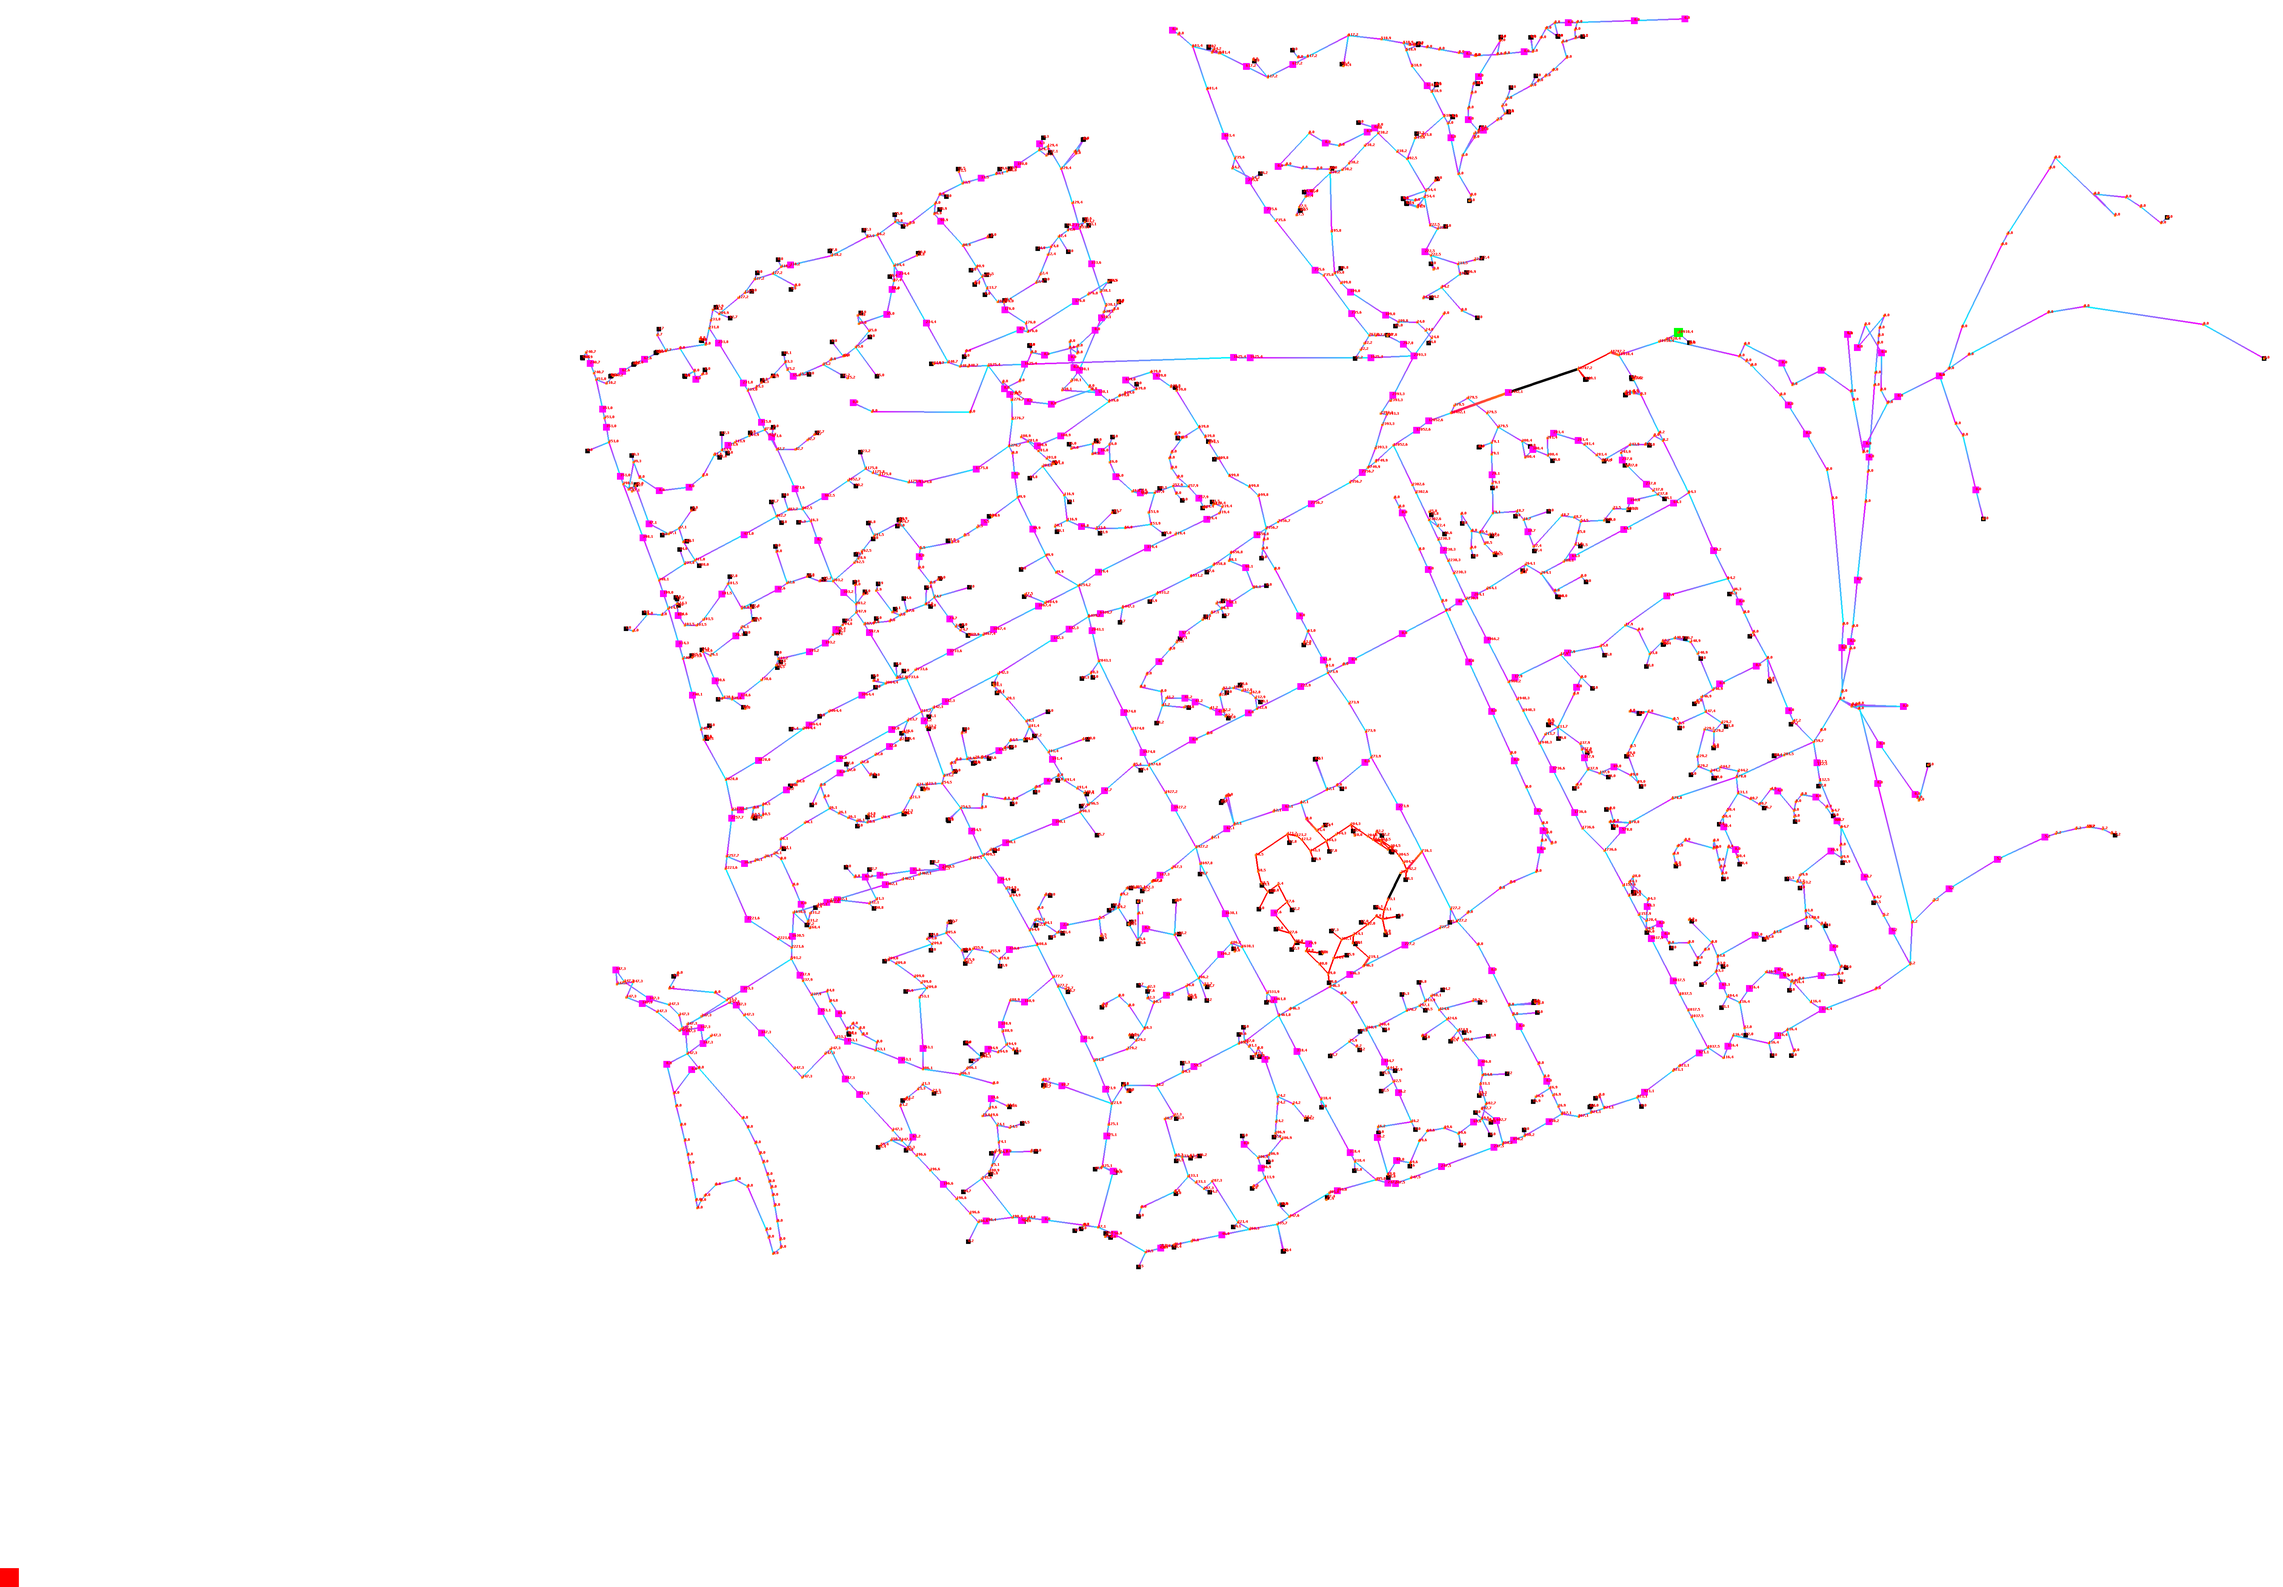
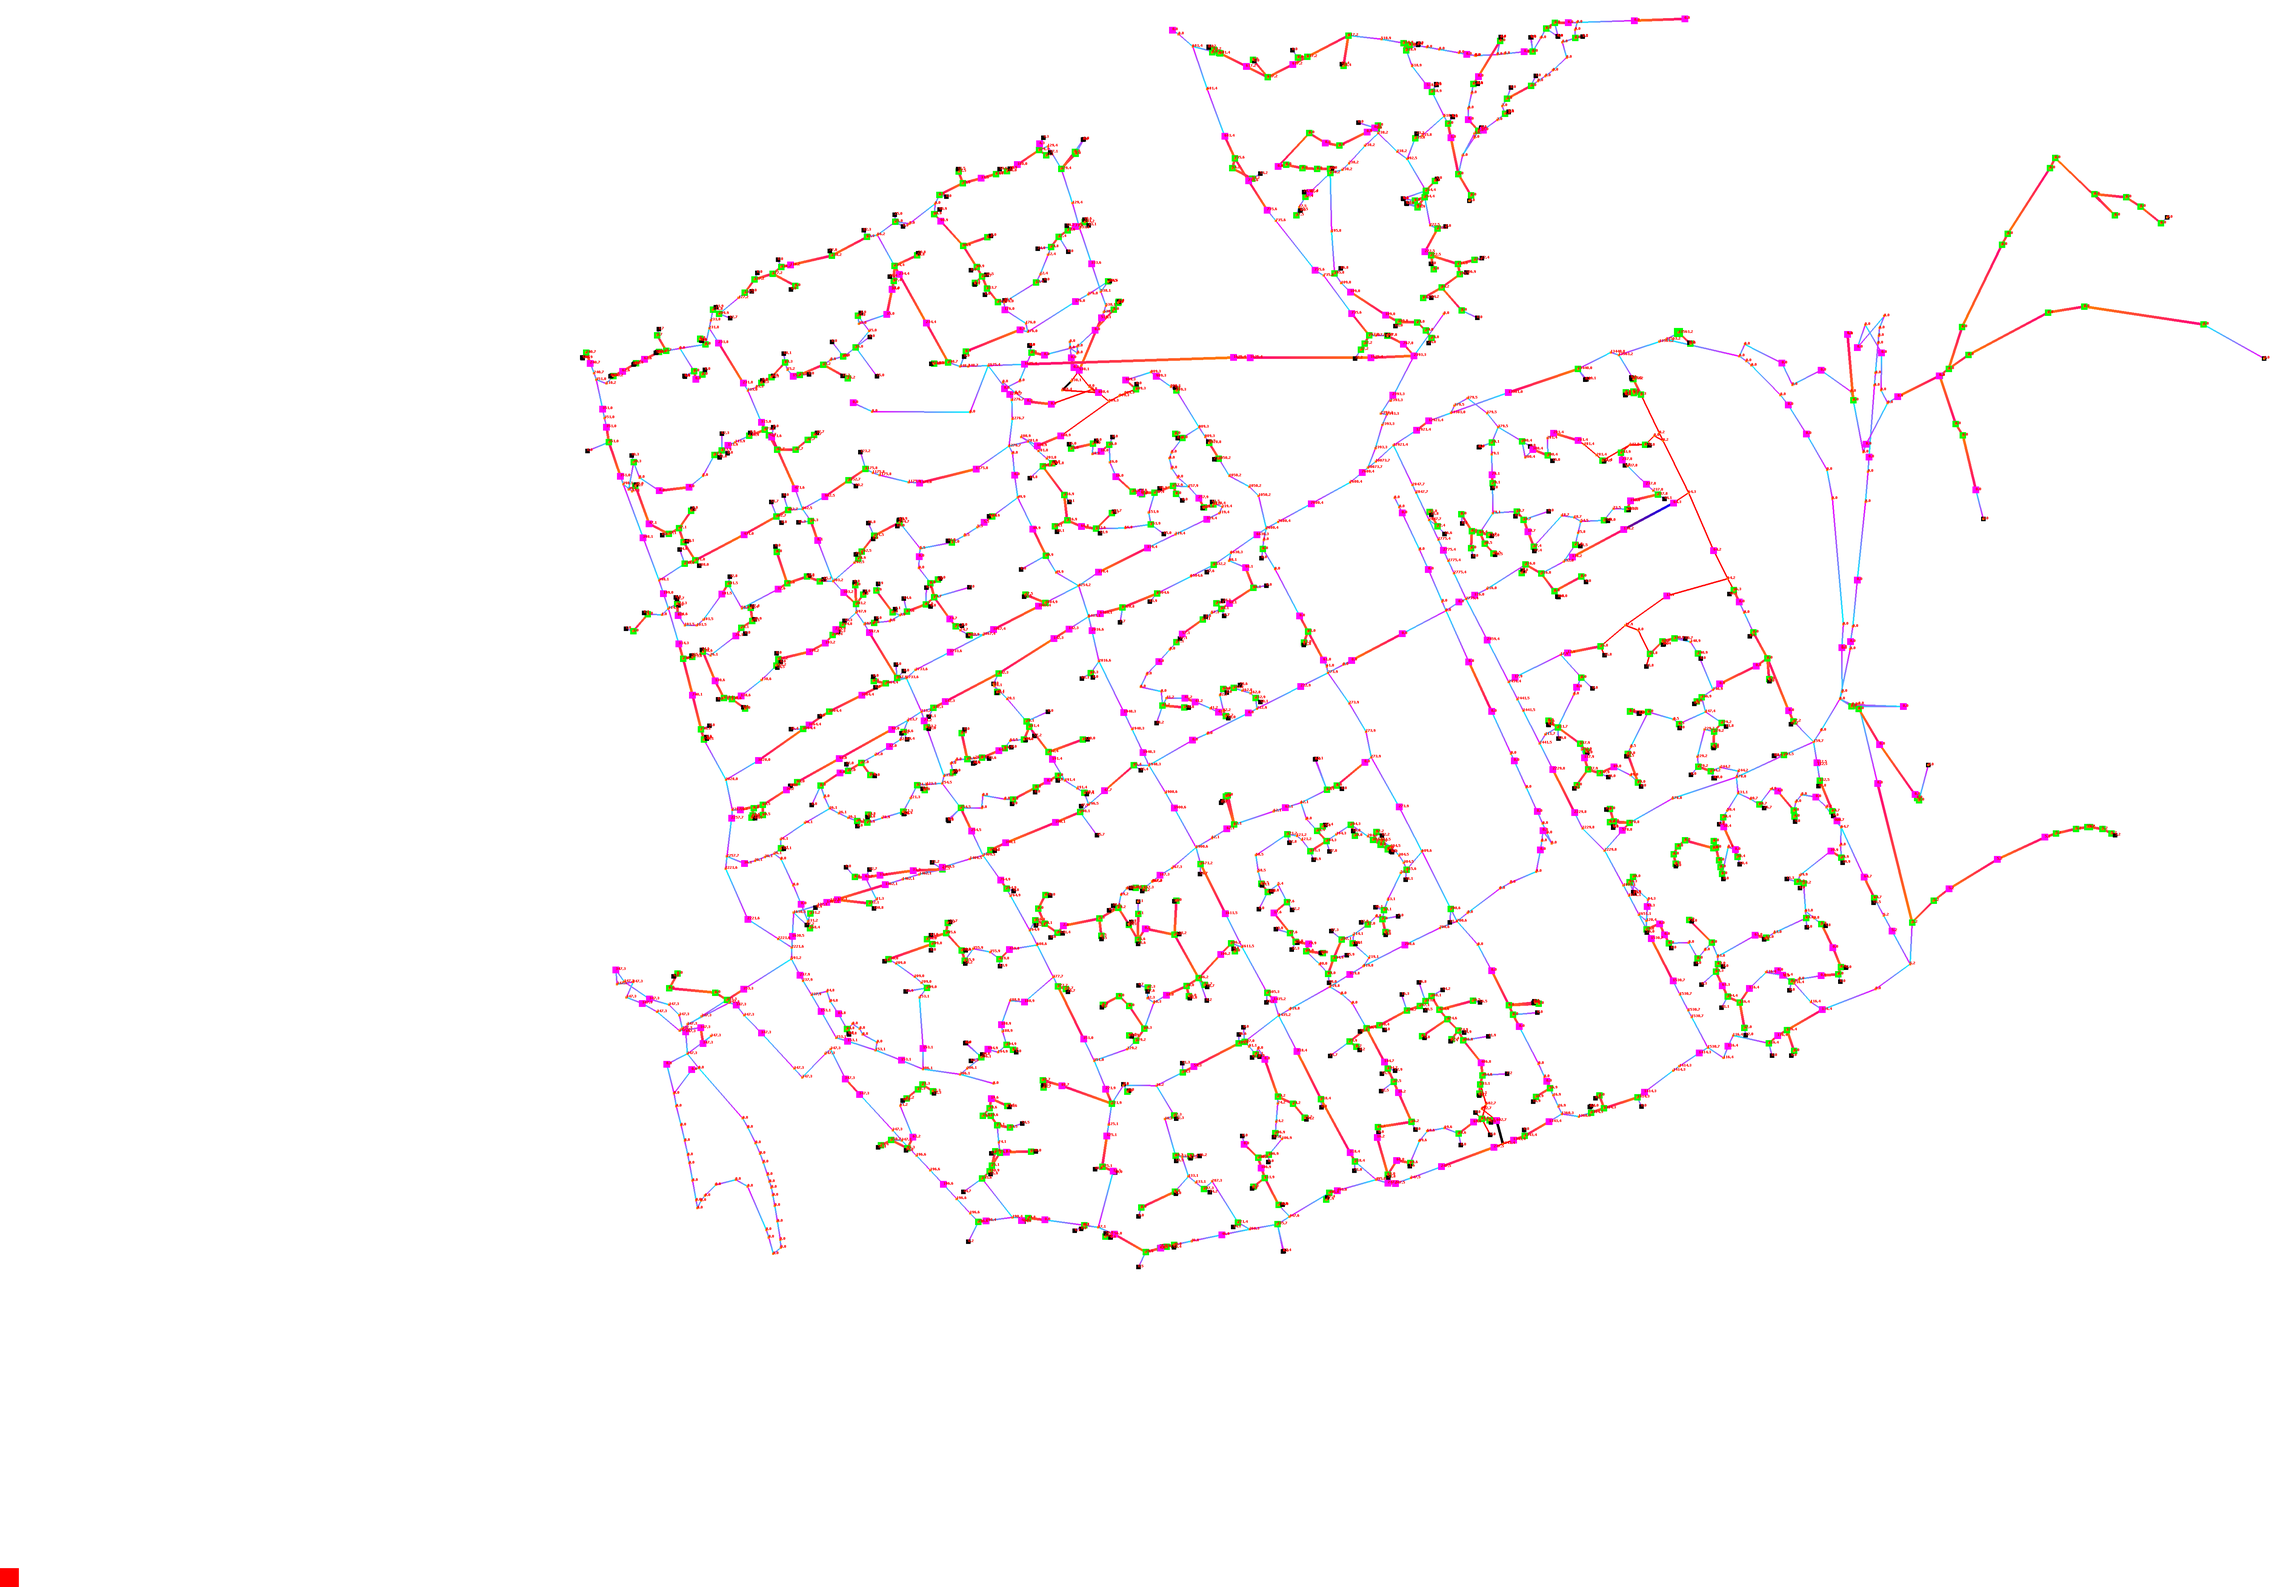
automated magical edges placement prototype

diff --git a/src/main/java/bachelorThesisPlayground/IsolatedZone.java b/src/main/java/bachelorThesisPlayground/IsolatedZone.java
@@ -27,16 +27,19 @@ public class IsolatedZone {
 		List<Vertex> startsOfExits = exits.stream().map(e->e.a).collect(Collectors.toList());
 		List<Vertex> endsOfExits = exits.stream().map(e->e.b).collect(Collectors.toList());
 
-		registerVertex(endsOfEntries.get(0));
+		for (Vertex v : endsOfEntries) {
+			registerVertex(v);
+		}
+		
+		for (Vertex v : startsOfExits) {
+			registerVertex(v);
+		}
 		
 		for (int i = 0; i < vertices.size(); i++) {
 			for (Vertex v : getNeighbours(graph, vertices.get(i))) {
 				System.out.println("traversing " + v);
 				if (startsOfEntries.contains(v) || endsOfExits.contains(v)) {
-					//traversion algo came from the backdoor and struck us, zone is not isolated
-					//but this is expected on the first iteration
-					if(i != 0)
-						throw new RuntimeException("not isolated");
+					System.out.println("startsOfEntries.contains(v) || endsOfExits.contains(v)");
 				} else if ( !(startsOfExits.contains(v) || endsOfEntries.contains(v) || vertices.contains(v)) ) {
 					registerVertex(v);
 				}
@@ -105,7 +108,7 @@ public class IsolatedZone {
 	}
 	
 	public String zoneCheck(){
-		if (getEntryFlow() - getInnerConsumption() - getExitFlow() == 0)
+		if (Math.abs(getEntryFlow() - getInnerConsumption() - getExitFlow()) < 0.000001)
 			return "OK";
 		else {
 			for (Vertex v : vertices) {
@@ -118,3 +121,59 @@ public class IsolatedZone {
 		}
 	}
 }
+
+
+
+
+//has bug
+
+//contract: entries are incoming edges, exits are outcoming, 
+	//so you can travel from entry.b->exit.a through the zone
+	//(all entries and exits can be reached from each other)
+	/*
+	public IsolatedZone(SimpleWeightedGraph<Vertex,Edge> graph, List<Edge> entries, List<Edge> exits) {
+		hostGraph = graph;
+		
+		List<Vertex> startsOfEntries = entries.stream().map(e->e.a).collect(Collectors.toList());
+		List<Vertex> endsOfEntries = entries.stream().map(e->e.b).collect(Collectors.toList());		
+		List<Vertex> startsOfExits = exits.stream().map(e->e.a).collect(Collectors.toList());
+		List<Vertex> endsOfExits = exits.stream().map(e->e.b).collect(Collectors.toList());
+
+		registerVertex(endsOfEntries.get(0));
+		
+		for (int i = 0; i < vertices.size(); i++) {
+			for (Vertex v : getNeighbours(graph, vertices.get(i))) {
+				System.out.println("traversing " + v);
+				if (startsOfEntries.contains(v) || endsOfExits.contains(v)) {
+					//traversion algo came from the backdoor and struck us, zone is not isolated
+					//but this is expected on the first iteration
+					if(i != 0)
+						throw new RuntimeException("not isolated");
+				} else if ( !(startsOfExits.contains(v) || endsOfEntries.contains(v) || vertices.contains(v)) ) {
+					registerVertex(v);
+				}
+			}
+		}
+		
+		//add all ends of entries and starts of exits if they are not present
+		List<Vertex> a = new ArrayList<>();
+		for (Vertex v : endsOfEntries)
+			if (!vertices.contains(v))
+				registerVertex(v);
+		
+
+		for (Vertex v : startsOfExits)
+			if (!vertices.contains(v))
+				registerVertex(v);
+		
+		for (Edge e: exits) {
+			e.magical = true;
+		}
+
+		for (Edge e: entries) {
+			e.magical = true;
+		}
+		this.entries = new ArrayList<>(entries);
+		this.exits = new ArrayList<>(exits);
+	}
+	*/

diff --git a/src/main/java/org/educationalProject/surfacePathfinder/visualization/NetworkVisualizer.java b/src/main/java/org/educationalProject/surfacePathfinder/visualization/NetworkVisualizer.java
@@ -2,27 +2,17 @@ package org.educationalProject.surfacePathfinder.visualization;
 
 import java.awt.Color;
 import java.awt.Font;
-import java.awt.image.BufferedImage;
-import java.io.File;
-import java.nio.ByteBuffer;
-import java.util.ArrayList;
 import java.util.List;
 
-import javax.imageio.ImageIO;
-
 import org.jgrapht.WeightedGraph;
-import org.jgrapht.graph.DefaultDirectedWeightedGraph;
-import org.jgrapht.graph.DefaultWeightedEdge;
 import org.jgrapht.graph.SimpleWeightedGraph;
 
-import com.jogamp.common.nio.Buffers;
 import com.jogamp.opengl.GL;
 import com.jogamp.opengl.GL2;
 import com.jogamp.opengl.util.awt.TextRenderer;
 
 import bachelorThesisPlayground.Edge;
 import bachelorThesisPlayground.Vertex;
-import io.github.jdiemke.triangulation.Triangle2D;
 
 public class NetworkVisualizer extends Visualizer{
 	protected WeightedGraph<Vertex, Edge> graph;
@@ -179,12 +169,18 @@ public class NetworkVisualizer extends Visualizer{
 	    gl2.glLineWidth((float)DisplayMode.getStrokeWidth(mode)*2);
 	    gl2.glBegin( GL2.GL_LINES );   
 		for (Edge e : graph.edgeSet()) {
-			if(e.magical) {
+			if(e.magical && e.leak > 0) {
+				drawColoredPoint(gl2, e.a, 0.5f, 0, 0.5f); 
+		    	drawColoredPoint(gl2, e.b, 0, 0, 1); 
+			} else if(e.magical) {
 				drawColoredPoint(gl2, e.a, 1, 0.5f, 0); 
 		    	drawColoredPoint(gl2, e.b, 1, 0, 0.5f); 
 			} else if (e.leak > 0) {
 		    	drawColoredPoint(gl2, e.a, 0, 0, 0); 
 		    	drawColoredPoint(gl2, e.b, 0, 0, 0); 
+			} else if (e.canBeMagical) {
+				drawColoredPoint(gl2, e.a, 1, 0.3f, 0); 
+		    	drawColoredPoint(gl2, e.b, 1, 0, 0.3f); 
 			}		      
 		}
 	    gl2.glEnd(); 
@@ -195,6 +191,14 @@ public class NetworkVisualizer extends Visualizer{
 		for (Vertex v : graph.vertexSet()) {
 			if(v.sensorPlaced)
 				drawColoredPoint(gl2, v, 0f, 0f, 1f);
+		}		
+		gl2.glEnd();
+		
+		gl2.glPointSize((float)(DisplayMode.getBigPointSize(mode)*1.4));
+		gl2.glBegin(GL.GL_POINTS);        	
+		for (Vertex v : graph.vertexSet()) {
+			if(v.pressureTransferCandidate)
+				drawColoredPoint(gl2, v, 0f, 1f, 0f);
 		}		
 		gl2.glEnd();
 		
@@ -238,7 +242,7 @@ public class NetworkVisualizer extends Visualizer{
 				drawColoredPoint(gl2, v, 1f, 0.5f, 0f);
 		}		
 		gl2.glEnd();	
-
+		
 		gl2.glPointSize((float)(DisplayMode.getBigPointSize(mode)*1.5));
 		gl2.glBegin(GL.GL_POINTS);        	
 		for (Vertex v : graph.vertexSet()) {

diff --git a/src/main/java/bachelorThesisPlayground/Vertex.java b/src/main/java/bachelorThesisPlayground/Vertex.java
@@ -14,6 +14,7 @@ public class Vertex {
 	public boolean canBeLocked = false;
 	public boolean locked = false;
 	public boolean betweenSectorBlock = false;
+	public boolean pressureTransferCandidate = false;
 	public String type = null;
 	
 	public double cycleInput = -1;

diff --git a/src/main/java/bachelorThesisPlayground/Edge.java b/src/main/java/bachelorThesisPlayground/Edge.java
@@ -11,7 +11,8 @@ public class Edge {
 	public double diameter;
 	//from 0 to 1
 	public double leak = 0;
-	
+
+	public boolean canBeMagical = false;
 	public boolean magical = false;
 	public double calculatedFlow = 0;
 	
